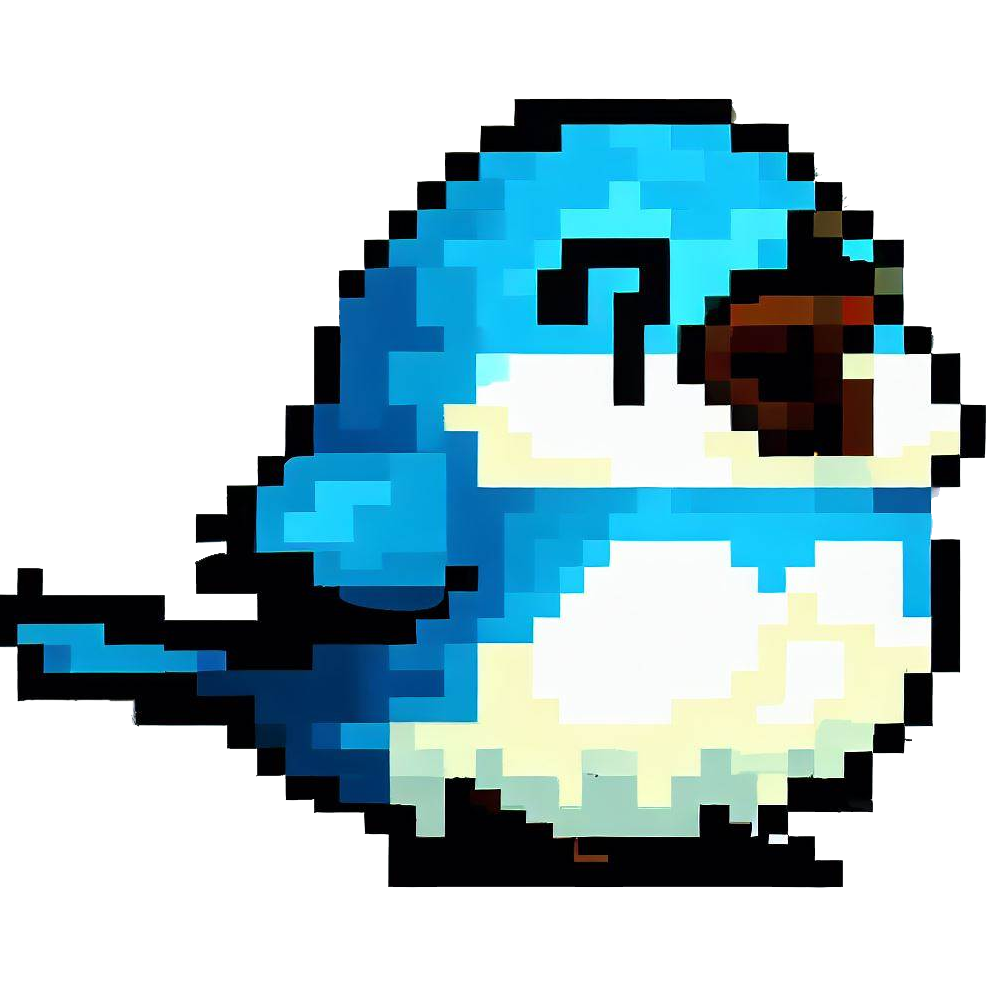
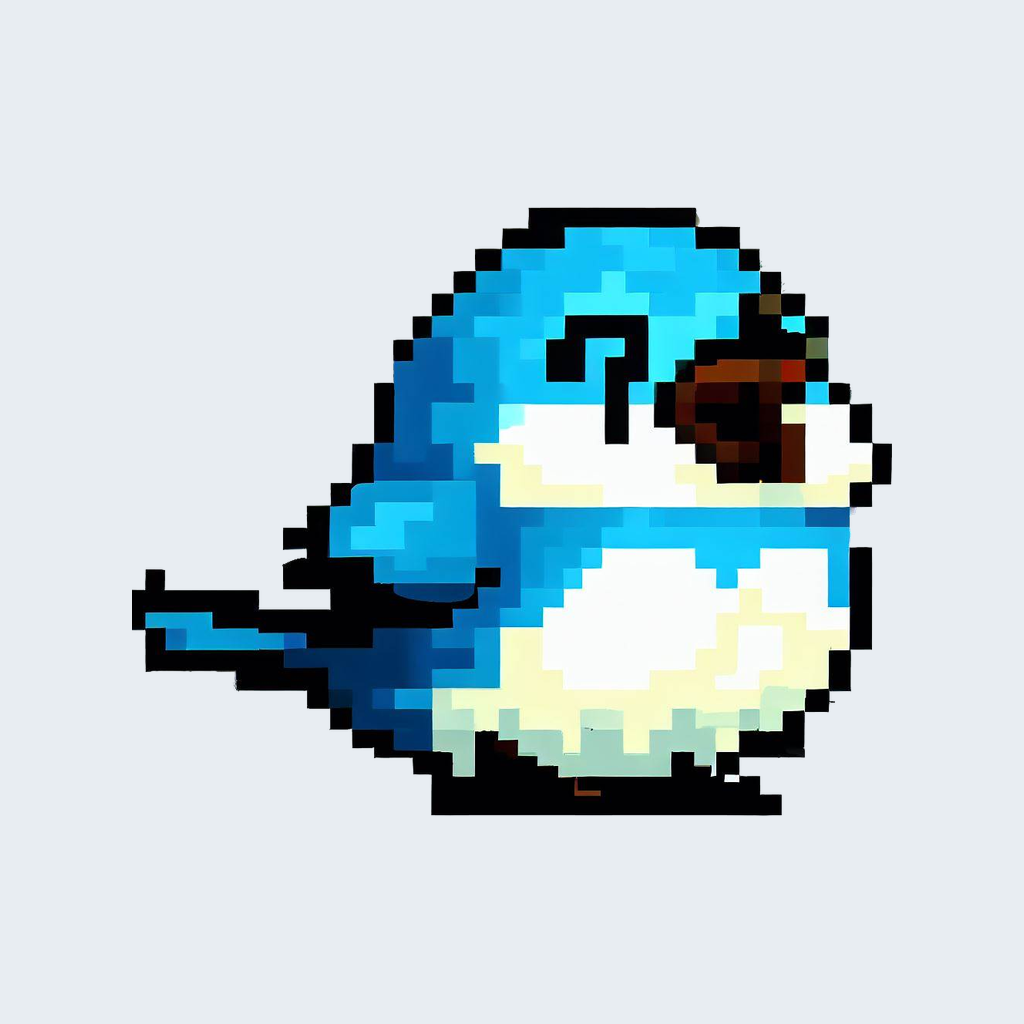
feat: 修复 macOS Dock 图标变形并新增 Homebrew cask 安装
- 重做 src/icon.png 为满幅正方形 (1024x1024, 无透明像素)，
  修复 macOS 26 Tahoe 下图标被拉伸变形、尾巴裁切、灰色底问题
- 新增 Casks/nas-xunlei.rb：arm64/x64 双架构 + 校验和，
  postflight 自动移除 quarantine 属性（应用未公证）
- README 增加 macOS Homebrew 安装说明

Generated with [Devin](https://devin.ai)

diff --git a/Casks/nas-xunlei.rb b/Casks/nas-xunlei.rb
@@ -1,0 +1,44 @@
+cask "nas-xunlei" do
+  version "1.3.4"
+
+  on_arm do
[1 lines of base64/hex data omitted]
+
+    url "https://github.com/xisj/nas-xunlei-client/releases/download/v#{version}/nas-xunlei-#{version}-arm64.dmg"
+  end
+  on_intel do
[1 lines of base64/hex data omitted]
+
+    url "https://github.com/xisj/nas-xunlei-client/releases/download/v#{version}/nas-xunlei-#{version}-x64.dmg"
+  end
+
+  name "nas迅雷"
+  desc "NAS 迅雷下载站桌面客户端"
+  homepage "https://github.com/xisj/nas-xunlei-client"
+
+  auto_updates true
+  depends_on :macos
+
+  app "nas迅雷.app"
+
+  # 应用未经 Apple 公证（未购买开发者证书），安装后移除 quarantine 属性，
+  # 否则 Apple Silicon 上首次启动会被 Gatekeeper 拦截（提示"已损坏"）。
+  postflight_steps do
+    run "/usr/bin/xattr",
+        args: ["-dr", "com.apple.quarantine", "{{appdir}}/nas迅雷.app"]
+  end
+
+  zap trash: [
+    "~/Library/Application Support/synology-xunlei-client",
+    "~/Library/Preferences/com.xisj.nas-xunlei.plist",
+  ]
+
+  caveats <<~EOS
+    应用未经 Apple 公证（未购买开发者证书），安装时会自动移除 quarantine 属性以便直接打开。
+    若仍提示"无法验证开发者"或"已损坏"，手动执行：
+
+      xattr -dr com.apple.quarantine "#{appdir}/nas迅雷.app"
+
+    应用支持自动更新（electron-updater），升级时无需重新安装本 cask。
+  EOS
+end

diff --git a/README.md b/README.md
@@ -3,6 +3,33 @@
 
 下载地址： https://github.com/xisj/nas-xunlei-client/releases
 
+## macOS 安装
+
+**方式一：Homebrew（推荐）**
+
+需要 [Homebrew](https://brew.sh)，然后在终端执行：
+
+```
+brew tap xisj/nas-xunlei
+brew trust xisj/nas-xunlei
+brew install --cask nas-xunlei
+```
+
+> `brew trust` 只需执行一次（Homebrew 7 起第三方 tap 默认不被信任）。
+
+应用未购买 Apple 开发者证书、未经公证，cask 安装时会自动移除 quarantine 属性，装完即可直接打开，无需额外操作。升级时用应用内的自动更新即可，也可以随时 `brew upgrade --cask nas-xunlei`。
+
+**方式二：手动安装 dmg**
+
+1. 在 [Releases](https://github.com/xisj/nas-xunlei-client/releases) 下载 `nas-xunlei-<版本>-arm64.dmg`（Intel Mac 用 `x64`）
+2. 若打开提示"已损坏，无法打开"，先执行（把文件名换成实际的）：
+
+```
+xattr -cr ~/Downloads/nas-xunlei-<版本>-arm64.dmg
+```
+
+3. 打开 dmg，把 nas迅雷 拖入「应用程序」
+
 ## 功能
 1. 打开 nas 下载文件夹 ， 可以直接打开下载任务的文件夹
 2. 速度球查看下载进度
